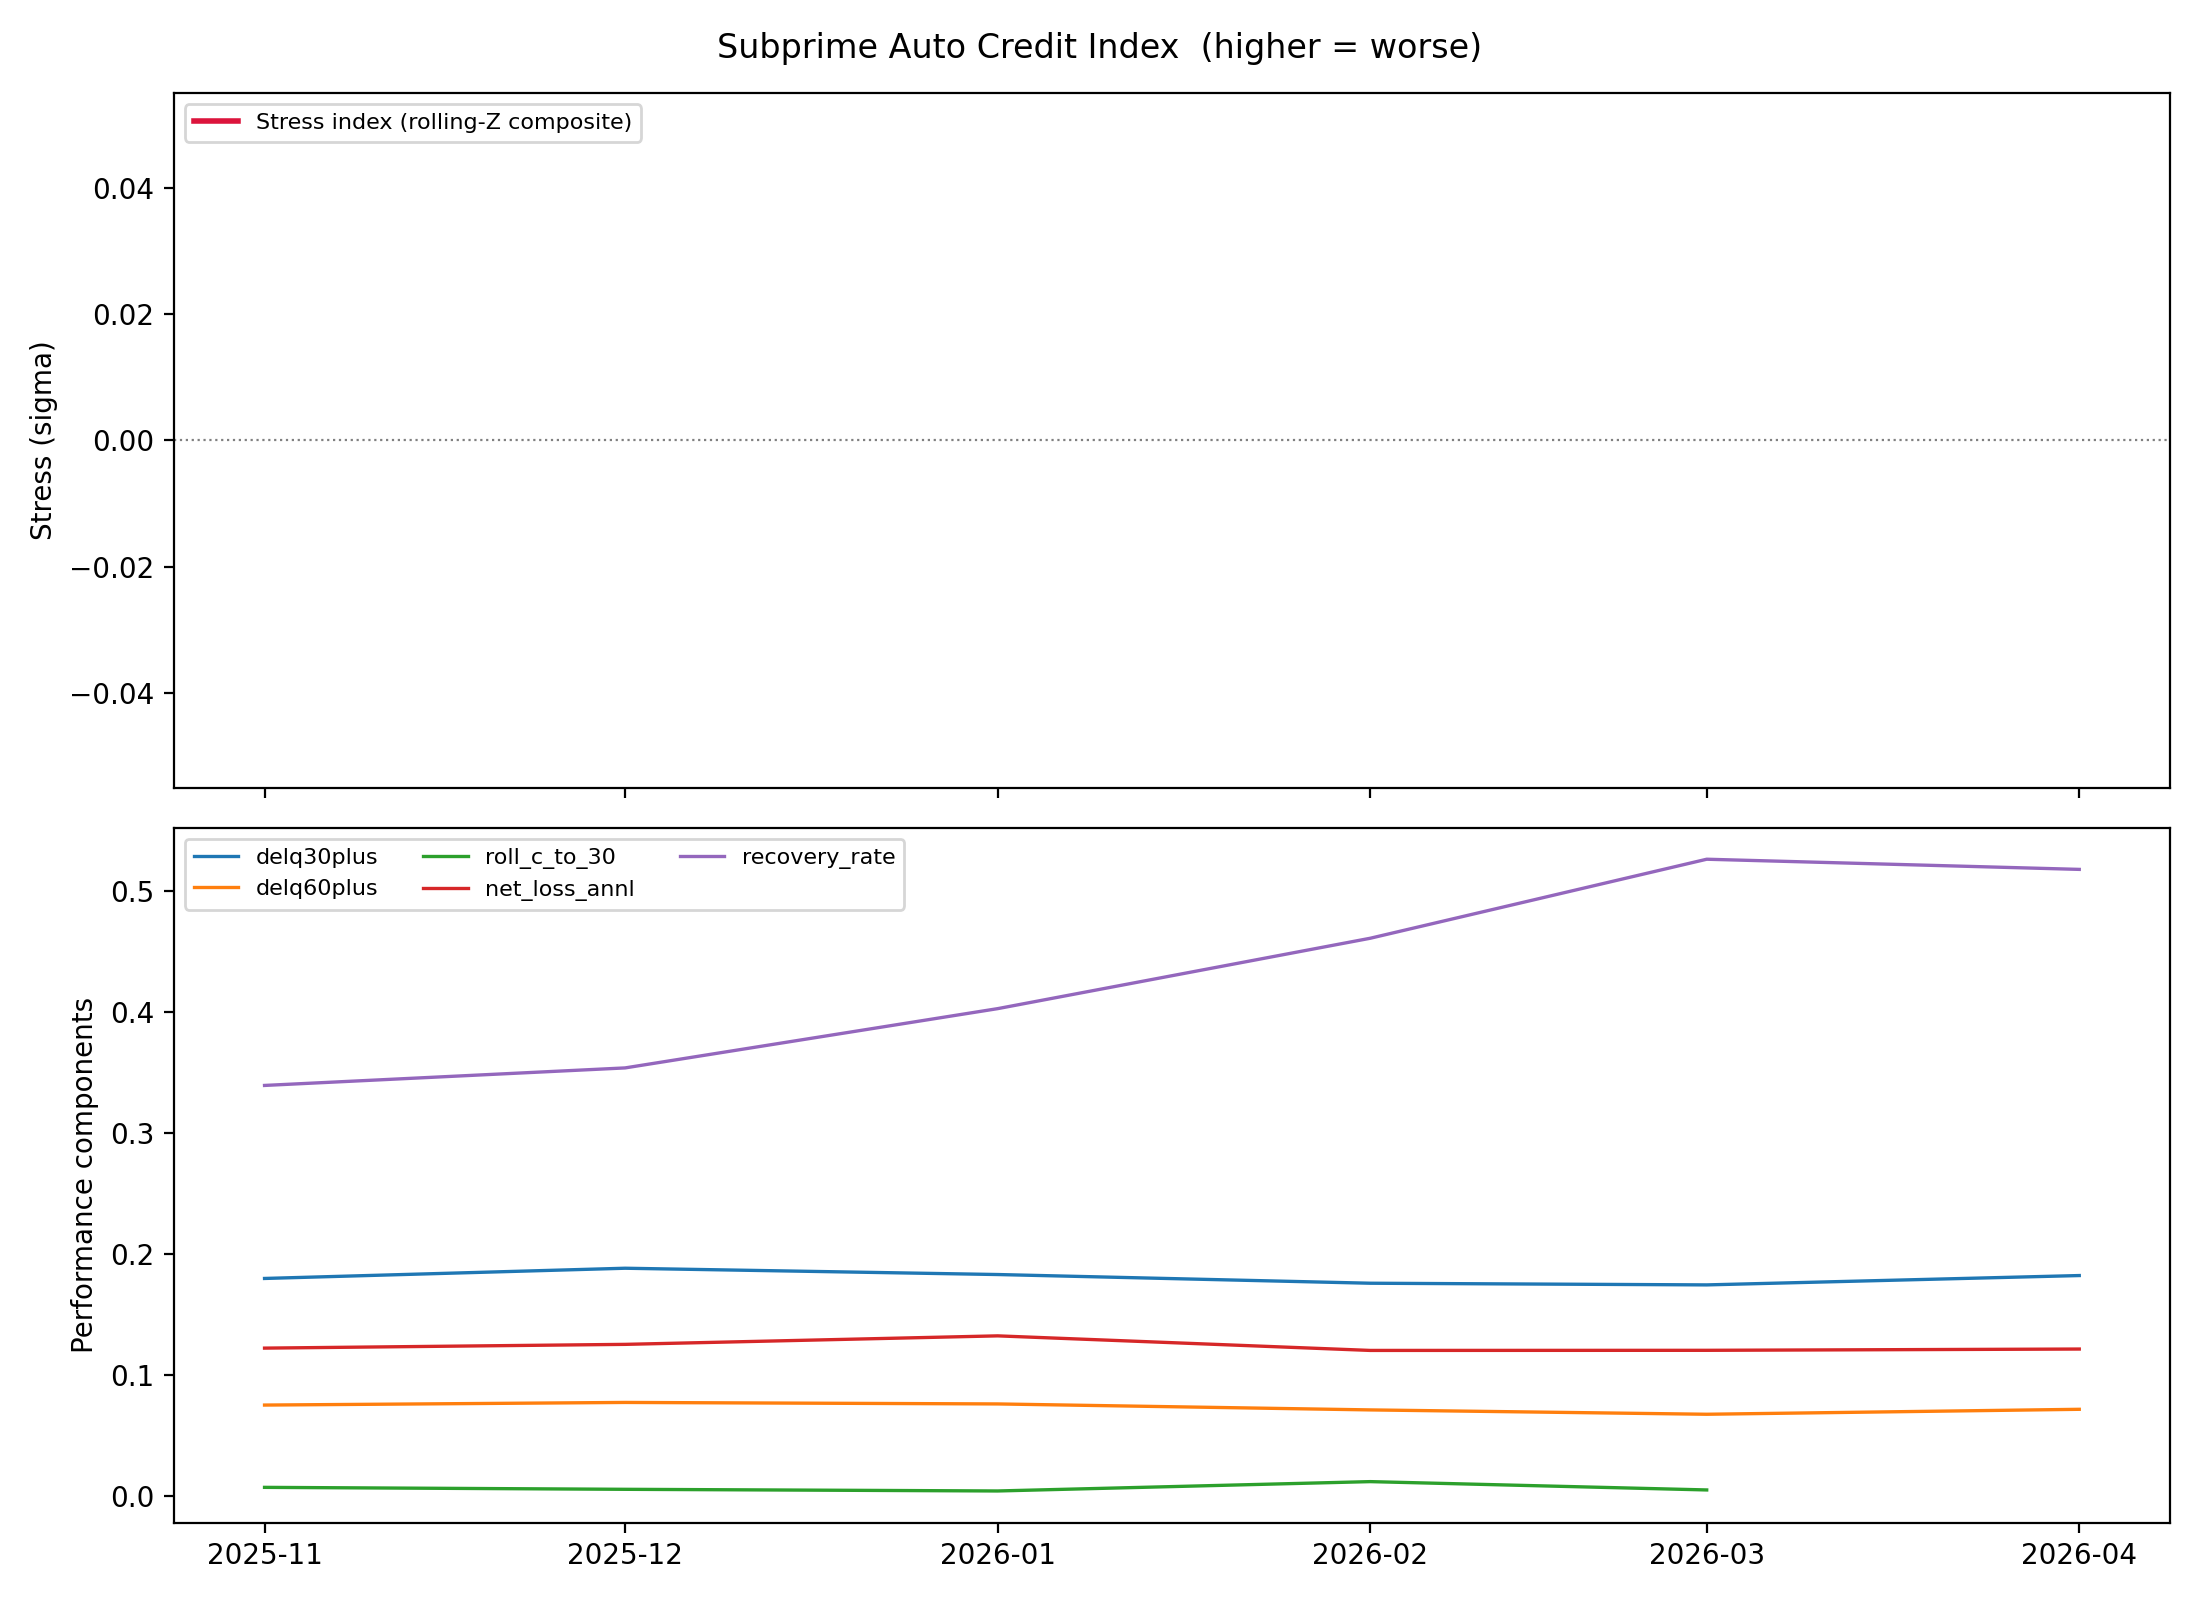
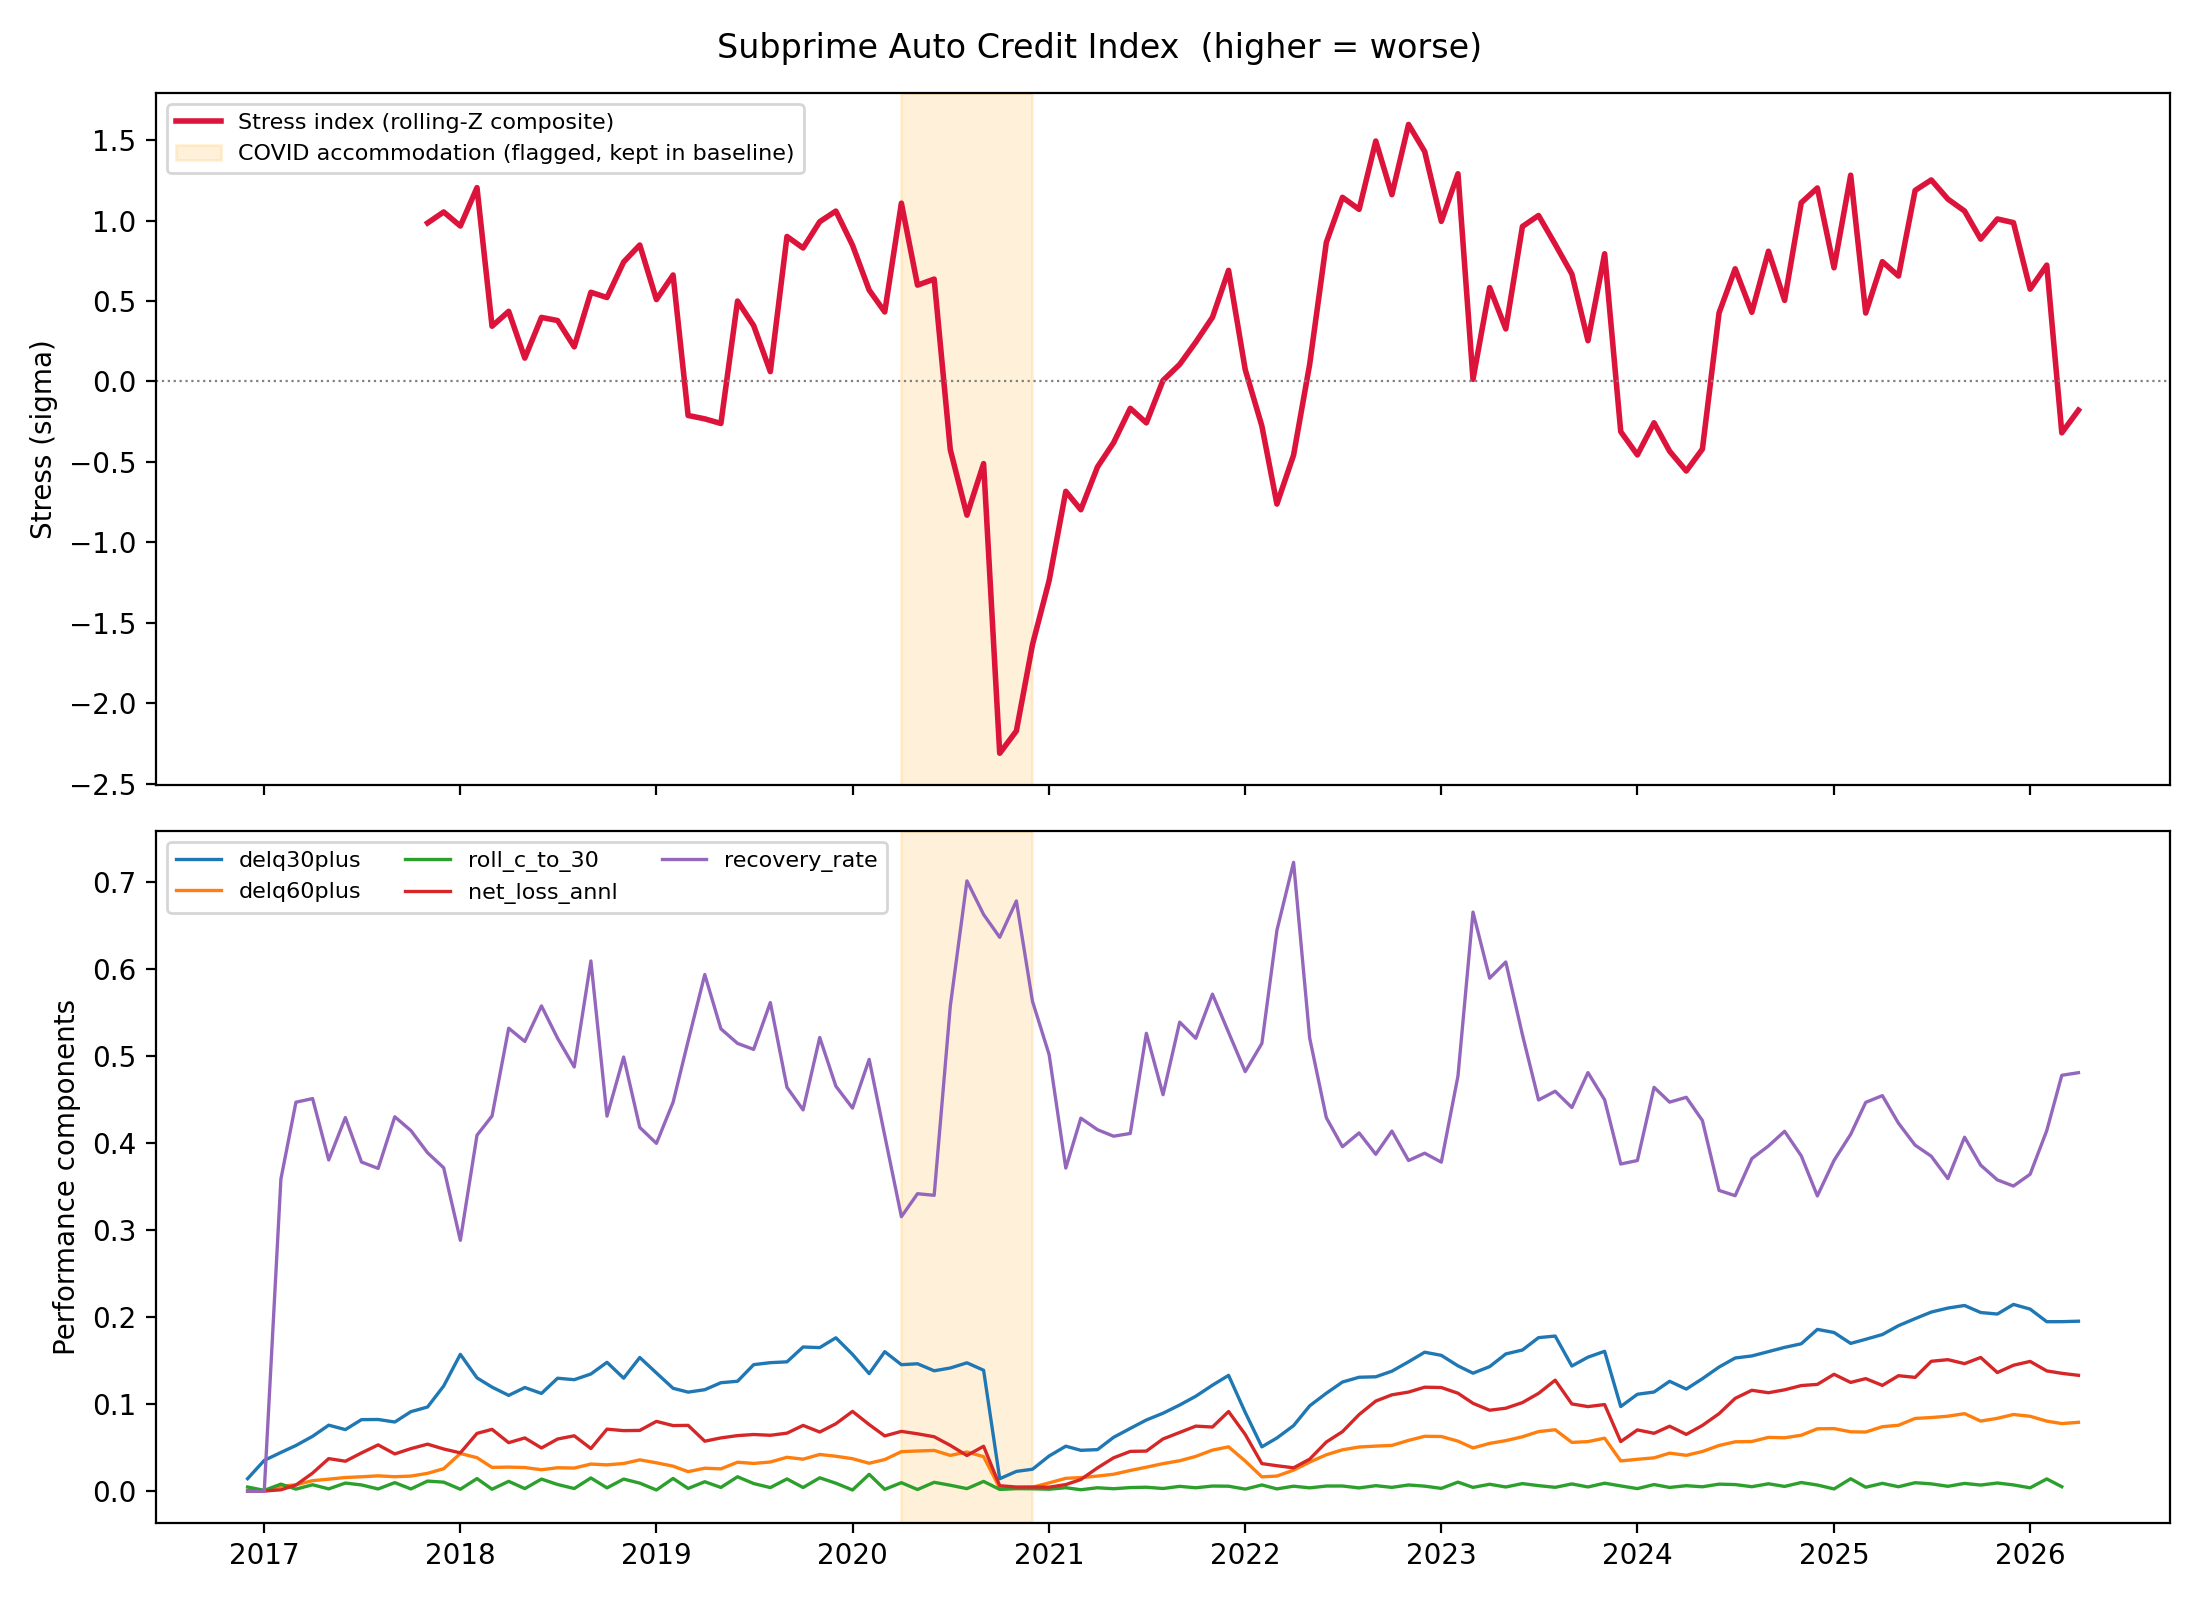
Add NY Fed benchmark comparison for subprime auto index
Full-history index (14 trusts, 2016-12..2026-04) validated against two NY Fed
series: all-auto 90+ transition (HHDC) and subprime <620 30+ flow (Liberty
Street). In the >=4-trust period our raw metrics track them at r~0.85-0.88.

diff --git a/fed_compare.py b/fed_compare.py
@@ -1,0 +1,263 @@
+"""Compare the subprime auto credit index against NY Fed benchmark series.
+
+Two official Fed benchmarks (downloaded into Inputs/fed/):
+
+  1. Overall auto 90+ transition — HHDC "Flow into Serious Delinquency (90+)
+     by Loan Type", AUTO column (annualized % of balances), 2003Q1-2026Q1.
+     All-auto (prime included), so a level floor, not a subprime match — used
+     for *timing/shape*.
+  2. Subprime (<620) auto delinquency transition — Liberty Street Economics
+     "Breaking Down Auto Loan Performance" (Feb 2025), Chart 2 "New Delinquency
+     by Origination Score", <620 column (quarterly flow into 30+ DPD, by
+     credit-score-at-origination), 2017Q2-2024Q4. The closest public analogue
+     to our pooled <640 securitized-subprime book.
+
+Our index is monthly; both Fed series are quarterly, so we align on calendar
+quarters. Flow metrics (roll Current->30+) are compounded to a quarterly rate;
+stock/level metrics are quarter-averaged. Correlations are computed on the
+overlapping quarters. Definitions differ (bucket depth, <620 vs <640, balance-
+vs loan-weighted), so the signal is co-movement and timing, not level identity.
+
+Run: ``python fed_compare.py``  ->  prints stats, writes Heatmaps/index_vs_fed.png
+"""
+from __future__ import annotations
+
+from pathlib import Path
+
+import numpy as np
+import pandas as pd
+
+ROOT = Path(__file__).resolve().parent
+FED = ROOT / "Inputs" / "fed"
+HHDC = FED / "HHD_C_Report_2026Q1.xlsx"
+LSE = FED / "LSE_2025_Scally_autos-data.xlsx"
+
+
+# ---------------------------------------------------------------------------
+# Fed series extraction -> tidy quarter-indexed Series
+# ---------------------------------------------------------------------------
+
+def _q(period_like) -> pd.Period:
+    return pd.Period(period_like, freq="Q")
+
+
+def load_fed_auto_90plus() -> pd.Series:
+    """Overall auto 90+ transition (annualized %), HHDC Page 14 AUTO column."""
+    df = pd.read_excel(HHDC, "Page 14 Data", header=None)
+    hdr = df.iloc[4].tolist()
+    auto_col = hdr.index("AUTO")
+    out = {}
+    for i in range(5, len(df)):
+        label = str(df.iloc[i, 0]).strip()
+        if ":" not in label:
+            continue
+        yy, qq = label.split(":")  # '03:Q1'
+        per = _q(f"20{yy}{qq}")
+        val = pd.to_numeric(df.iloc[i, auto_col], errors="coerce")
+        if pd.notna(val):
+            out[per] = float(val)
+    return pd.Series(out, name="fed_auto90_annl_pct").sort_index()
+
+
+def load_fed_subprime_below620() -> pd.Series:
+    """Subprime <620 quarterly flow into 30+ DPD (%), LSE Chart 2."""
+    df = pd.read_excel(LSE, "Chart 2", header=None)
+    hdr = [str(x) for x in df.iloc[7].tolist()]
+    col = hdr.index("<620")
+    out = {}
+    for i in range(8, len(df)):
+        label = str(df.iloc[i, 0]).strip()
+        if not label[:6].isdigit():
+            continue
+        per = pd.Period(f"{label[:4]}-{label[4:6]}", freq="M").asfreq("Q")
+        val = pd.to_numeric(df.iloc[i, col], errors="coerce")
+        if pd.notna(val):
+            out[per] = float(val) * 100.0  # fraction -> percent
+    return pd.Series(out, name="fed_sub620_30plus_q_pct").sort_index()
+
+
+def save_fed_csvs() -> None:
+    """Persist both series as date,value CSVs (load_nyfed_subprime_auto format)."""
+    for s, fn in ((load_fed_auto_90plus(), "fed_auto_90plus_transition.csv"),
+                  (load_fed_subprime_below620(), "fed_subprime_below620_30plus.csv")):
+        out = s.copy()
+        out.index = out.index.to_timestamp(how="end").normalize()
+        out.rename_axis("date").to_frame("value").to_csv(FED / fn)
+
+
+# ---------------------------------------------------------------------------
+# Our index -> quarterly
+# ---------------------------------------------------------------------------
+
+def load_our_index() -> pd.DataFrame:
+    idx = pd.read_csv(ROOT / "csv" / "index_marks.csv", parse_dates=["month"])
+    idx["q"] = idx["month"].dt.to_period("Q")
+    return idx
+
+
+def quarterly_metrics(idx: pd.DataFrame) -> pd.DataFrame:
+    """Aggregate monthly metrics to quarters: flows compounded, levels averaged."""
+    g = idx.groupby("q")
+    out = pd.DataFrame(index=g.size().index)
+    # Stocks / levels: mean across the quarter's months.
+    for c in ["delq30plus", "delq60plus", "net_loss_annl", "recovery_rate",
+              "stress_index", "n_trusts"]:
+        if c in idx.columns:
+            out[c] = g[c].mean()
+    # Flow: monthly Current->30+ compounded into a quarterly rate.
+    if "roll_c_to_30" in idx.columns:
+        out["roll_c_to_30_q"] = g["roll_c_to_30"].apply(
+            lambda s: 1.0 - np.prod(1.0 - s.dropna().to_numpy())
+            if s.notna().any() else np.nan
+        )
+    return out
+
+
+# ---------------------------------------------------------------------------
+# Comparison
+# ---------------------------------------------------------------------------
+
+def _corr(a: pd.Series, b: pd.Series) -> tuple[float, float, int]:
+    j = pd.concat([a, b], axis=1).dropna()
+    if len(j) < 4:
+        return np.nan, np.nan, len(j)
+    x, y = j.iloc[:, 0], j.iloc[:, 1]
+    # Spearman = Pearson on ranks (avoids a scipy dependency).
+    return (float(x.corr(y)),
+            float(x.rank().corr(y.rank())),
+            len(j))
+
+
+def main() -> int:
+    save_fed_csvs()
+    fed90 = load_fed_auto_90plus()
+    sub = load_fed_subprime_below620()
+    qm = quarterly_metrics(load_our_index())
+
+    fed90.index = fed90.index.to_timestamp(how="end").normalize()
+    sub.index = sub.index.to_timestamp(how="end").normalize()
+    qm.index = qm.index.to_timestamp(how="end").normalize()
+
+    print("=" * 74)
+    print("SUBPRIME AUTO CREDIT INDEX  vs  NY FED BENCHMARKS")
+    print("=" * 74)
+    print(f"Our index quarters:   {qm.index.min():%Y-%m} .. {qm.index.max():%Y-%m}  "
+          f"({len(qm)} quarters, {int(qm['n_trusts'].max())} trusts at peak)")
+    print(f"Fed auto 90+ (all):   {fed90.index.min():%Y-%m} .. {fed90.index.max():%Y-%m}")
+    print(f"Fed subprime <620:    {sub.index.min():%Y-%m} .. {sub.index.max():%Y-%m}")
+
+    print("\n--- CORRELATIONS over overlapping quarters (Pearson / Spearman / n) ---")
+    metrics = [("stress_index", "stress index (composite Z)"),
+               ("roll_c_to_30_q", "roll Current->30+ (quarterly flow)"),
+               ("delq30plus", "30+ DPD stock"),
+               ("delq60plus", "60+ DPD stock"),
+               ("net_loss_annl", "net loss (annualized)")]
+    # Restrict to the breadth-robust period (>=4 constituents): early quarters
+    # are one seasoning deal, whose age curve is deal-specific noise, not market.
+    robust = qm[qm["n_trusts"] >= 4]
+    robust_from = robust.index.min()
+    for bench, blabel in [(sub, "Fed SUBPRIME <620 (30+ flow)"),
+                          (fed90, "Fed ALL-AUTO 90+ transition")]:
+        print(f"\n  vs {blabel}:")
+        print(f"    {'metric':38s}  {'full sample':>18s}   {'>=4 trusts only':>18s}")
+        for key, label in metrics:
+            if key in qm.columns:
+                p, sp, n = _corr(qm[key], bench)
+                pr, spr, nr = _corr(robust[key], bench)
+                print(f"    {label:38s}  r={p:+.2f} rho={sp:+.2f} n={n:<3d}   "
+                      f"r={pr:+.2f} rho={spr:+.2f} n={nr}")
+    print(f"  (>=4-trust period starts {robust_from:%Y-%m})")
+
+    def qlab(ts):
+        return f"{ts.year}Q{(ts.month - 1) // 3 + 1}"
+
+    # Level snapshot: our compounded quarterly subprime roll vs LSE <620.
+    print("\n--- LEVEL SNAPSHOT: our roll C->30+ (q, %) vs Fed <620 (q, %) ---")
+    comp = pd.concat([(qm["roll_c_to_30_q"] * 100).rename("ours"),
+                      sub.rename("fed_sub620")], axis=1).dropna()
+    for dt, r in comp.tail(10).iterrows():
+        print(f"    {qlab(dt)}   ours={r['ours']:5.2f}%   fed<620={r['fed_sub620']:5.2f}%")
+
+    # Full aligned quarterly table of the headline series.
+    print("\n--- ALIGNED QUARTERLY TABLE (headline) ---")
+    tbl = pd.concat([
+        qm["n_trusts"].rename("n"),
+        (qm["delq30plus"] * 100).rename("our30+"),
+        (qm["net_loss_annl"] * 100).rename("ourNL%"),
+        qm["stress_index"].rename("stress"),
+        sub.rename("fed<620"),
+        fed90.rename("fedAuto90"),
+    ], axis=1)
+    tbl = tbl[tbl["n"].notna()]
+    print(f"    {'quarter':8s} {'n':>3s} {'our30+':>7s} {'ourNL%':>7s} "
+          f"{'stress':>7s} {'fed<620':>8s} {'fedAuto90':>9s}")
+    for dt, r in tbl.iterrows():
+        f = lambda v, w, d=1: (f"{v:{w}.{d}f}" if pd.notna(v) else " " * w)
+        print(f"    {qlab(dt):8s} {int(r['n']):3d} {f(r['our30+'],7)} {f(r['ourNL%'],7)} "
+              f"{f(r['stress'],7,2)} {f(r['fed<620'],8)} {f(r['fedAuto90'],9,2)}")
+
+    _plot(qm, fed90, sub)
+    print("\nSaved overlay chart -> Heatmaps/index_vs_fed.png")
+    print("Saved Fed CSVs       -> Inputs/fed/fed_*.csv")
+    return 0
+
+
+def _plot(qm: pd.DataFrame, fed90: pd.Series, sub: pd.Series) -> None:
+    import matplotlib.pyplot as plt  # noqa: PLC0415
+    from matplotlib.dates import YearLocator
+
+    covid0, covid1 = pd.Timestamp("2020-04-01"), pd.Timestamp("2020-12-31")
+    fig, axes = plt.subplots(3, 1, figsize=(12, 11), sharex=True)
+    fig.suptitle("Subprime Auto Credit Index vs NY Fed benchmarks  (higher = worse)",
+                 fontsize=13)
+
+    # Panel 1: stress index (Z) vs both Fed series, each standardized for shape.
+    ax = axes[0]
+    ax.plot(qm.index, qm["stress_index"], color="crimson", lw=2.2,
+            label="Our stress index (rolling-Z composite)")
+    ax.axhline(0, color="grey", lw=0.8, ls=":")
+    ax.set_ylabel("Stress (sigma)")
+    axb = ax.twinx()
+    z = lambda s: (s - s.mean()) / s.std()
+    axb.plot(sub.index, z(sub), color="navy", lw=1.4, ls="--",
+             label="Fed <620 30+ flow (standardized)")
+    axb.plot(fed90.index, z(fed90), color="green", lw=1.2, ls="-.",
+             label="Fed all-auto 90+ (standardized)")
+    axb.set_ylabel("Fed series (z)")
+    ax.axvspan(covid0, covid1, color="orange", alpha=0.15)
+    ax.legend(loc="upper left", fontsize=8)
+    axb.legend(loc="lower right", fontsize=8)
+
+    # Panel 2: most apples-to-apples levels — our quarterly roll vs Fed <620.
+    ax = axes[1]
+    ax.plot(qm.index, qm["roll_c_to_30_q"] * 100, color="crimson", lw=2,
+            marker="o", ms=3, label="Our roll Current->30+ (quarterly %, balance-wtd)")
+    ax.plot(sub.index, sub.values, color="navy", lw=1.6, ls="--",
+            marker="s", ms=3, label="Fed <620 new 30+ delinquency (quarterly %)")
+    ax.axvspan(covid0, covid1, color="orange", alpha=0.15)
+    ax.set_ylabel("Quarterly flow into 30+ (%)")
+    ax.legend(loc="upper left", fontsize=8)
+
+    # Panel 3: our stock delinquency vs Fed all-auto 90+ transition (annualized).
+    ax = axes[2]
+    ax.plot(qm.index, qm["delq30plus"] * 100, color="crimson", lw=2,
+            label="Our 30+ DPD stock (%)")
+    ax.plot(qm.index, qm["delq60plus"] * 100, color="darkorange", lw=1.5,
+            label="Our 60+ DPD stock (%)")
+    axb = ax.twinx()
+    axb.plot(fed90.index, fed90.values, color="green", lw=1.6, ls="-.",
+             label="Fed all-auto 90+ transition (annualized %)")
+    axb.set_ylabel("Fed all-auto 90+ (%)", color="green")
+    ax.axvspan(covid0, covid1, color="orange", alpha=0.15)
+    ax.set_ylabel("Our DPD stock (%)")
+    ax.xaxis.set_major_locator(YearLocator())
+    ax.legend(loc="upper left", fontsize=8)
+    axb.legend(loc="lower right", fontsize=8)
+
+    fig.tight_layout()
+    fig.savefig(ROOT / "Heatmaps" / "index_vs_fed.png", dpi=160)
+    plt.close(fig)
+
+
+if __name__ == "__main__":
+    raise SystemExit(main())